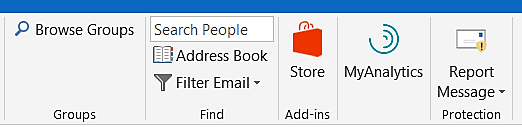
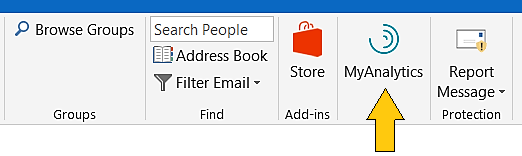
Edit open add-in png

diff --git a/WorkplaceAnalytics/MyAnalytics/Includes/to-open-outlook-add-in.md b/WorkplaceAnalytics/MyAnalytics/Includes/to-open-outlook-add-in.md
@@ -17,9 +17,11 @@ The MyAnalyticsOutlook add-in is automatically enabled for all users who have th
 
 *In Microsoft Outlook*
 
- * In the Outlook desktop application's navigation bar, select the MyAnalytics logo. The MyAnalytics add-in pane slides open in the right-hand side of your email window.
+ * In the Outlook desktop application's navigation bar, select the MyAnalytics logo. 
 
     <img src="../../Images/Open-mya-in-add-in.png" alt="MyAnalytics add-in in Outlook">
+
+    The MyAnalytics add-in pane slides open in the right-hand side of your email window.
 
 *In Outlook Web App*
 
